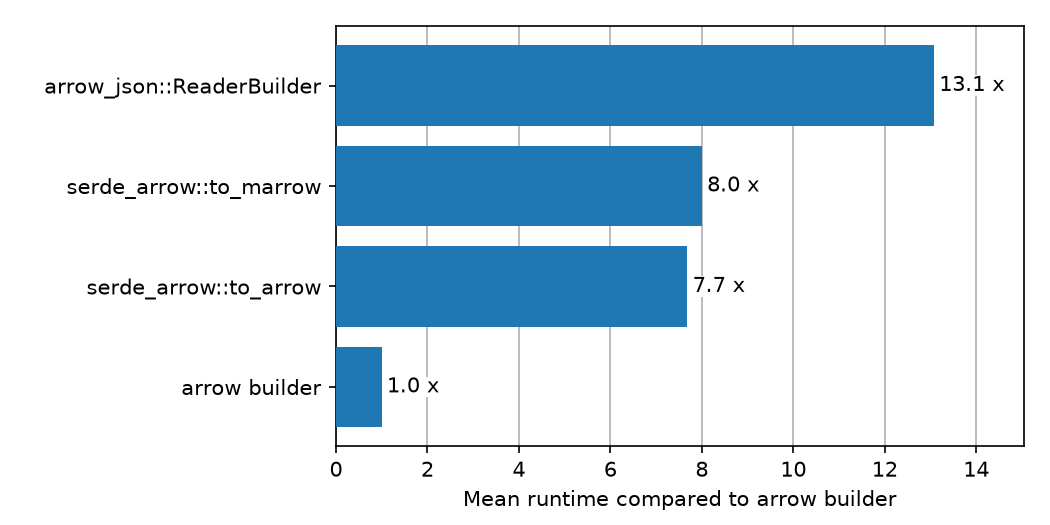
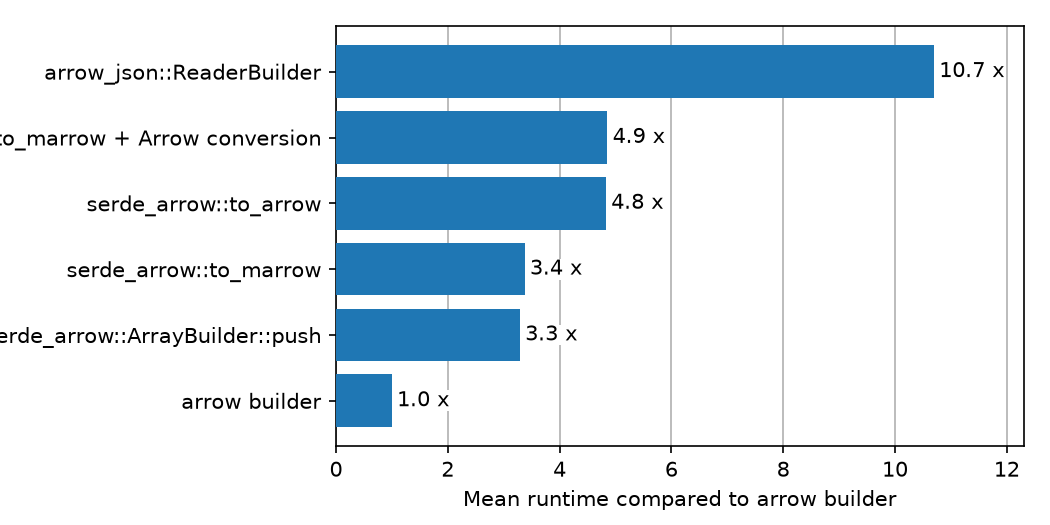
Update the readme

diff --git a/Readme.md b/Readme.md
@@ -130,24 +130,42 @@ Arrow builder construction. These benchmark results are workload-specific and on
 The detailed runtimes of the [benchmarks](serde_arrow_bench/benches/groups/) are listed below.
 
 <!-- start:benchmarks -->
+### `binary_values_1000`
+
+| label        | time [ms] | large_binary | binary | binary_view |
+|--------------|-----------|--------------|--------|-------------|
+| large_binary |      5.00 |         1.00 |   0.86 |        0.58 |
+| binary       |      5.84 |         1.17 |   1.00 |        0.68 |
+| binary_view  |      8.57 |         1.71 |   1.47 |        1.00 |
+
 ### `complex_1000`
 
-| label                     | time [ms] | arrow builder | serde_arrow::to | serde_arrow::to | arrow_json::Rea |
-|---------------------------|-----------|---------------|-----------------|-----------------|-----------------|
-| arrow builder             |      0.36 |          1.00 |            0.21 |            0.18 |            0.12 |
-| serde_arrow::to_arrow     |      1.74 |          4.86 |            1.00 |            0.87 |            0.59 |
-| serde_arrow::to_marrow    |      2.00 |          5.58 |            1.15 |            1.00 |            0.68 |
-| arrow_json::ReaderBuilder |      2.97 |          8.27 |            1.70 |            1.48 |            1.00 |
+| label                                     | time [ms] | arrow builder | serde_arrow::to | serde_arrow::Ar | serde_arrow::to | serde_arrow::to | arrow_json::Rea |
+|-------------------------------------------|-----------|---------------|-----------------|-----------------|-----------------|-----------------|-----------------|
+| arrow builder                             |      0.43 |          1.00 |            0.32 |            0.28 |            0.27 |            0.24 |            0.12 |
+| serde_arrow::to_arrow                     |      1.31 |          3.08 |            1.00 |            0.86 |            0.82 |            0.74 |            0.38 |
+| serde_arrow::ArrayBuilder::push           |      1.52 |          3.57 |            1.16 |            1.00 |            0.95 |            0.86 |            0.44 |
+| serde_arrow::to_marrow                    |      1.60 |          3.76 |            1.22 |            1.05 |            1.00 |            0.90 |            0.46 |
+| serde_arrow::to_marrow + Arrow conversion |      1.77 |          4.16 |            1.35 |            1.17 |            1.11 |            1.00 |            0.51 |
+| arrow_json::ReaderBuilder                 |      3.47 |          8.15 |            2.64 |            2.29 |            2.17 |            1.96 |            1.00 |
 
 ### `primitives_1000`
 
-| label                     | time [ms] | arrow builder | serde_arrow::to | serde_arrow::to | arrow_json::Rea |
-|---------------------------|-----------|---------------|-----------------|-----------------|-----------------|
-| arrow builder             |      0.05 |          1.00 |            0.10 |            0.10 |            0.06 |
-| serde_arrow::to_marrow    |      0.49 |         10.42 |            1.00 |            0.99 |            0.58 |
-| serde_arrow::to_arrow     |      0.50 |         10.51 |            1.01 |            1.00 |            0.59 |
-| arrow_json::ReaderBuilder |      0.85 |         17.89 |            1.72 |            1.70 |            1.00 |
+| label                                     | time [ms] | arrow builder | serde_arrow::to | serde_arrow::Ar | serde_arrow::to | serde_arrow::to | arrow_json::Rea |
+|-------------------------------------------|-----------|---------------|-----------------|-----------------|-----------------|-----------------|-----------------|
+| arrow builder                             |      0.07 |          1.00 |            0.33 |            0.33 |            0.18 |            0.15 |            0.08 |
+| serde_arrow::to_marrow                    |      0.22 |          3.00 |            1.00 |            0.99 |            0.54 |            0.46 |            0.23 |
+| serde_arrow::ArrayBuilder::push           |      0.22 |          3.02 |            1.01 |            1.00 |            0.54 |            0.46 |            0.23 |
+| serde_arrow::to_marrow + Arrow conversion |      0.40 |          5.55 |            1.85 |            1.84 |            1.00 |            0.84 |            0.42 |
+| serde_arrow::to_arrow                     |      0.48 |          6.58 |            2.20 |            2.18 |            1.19 |            1.00 |            0.50 |
+| arrow_json::ReaderBuilder                 |      0.96 |         13.24 |            4.42 |            4.39 |            2.39 |            2.01 |            1.00 |
 
+### `wide_schema_1024`
+
+| label              | time [ms] | builder_setup | deserializer_se |
+|--------------------|-----------|---------------|-----------------|
+| builder_setup      |      0.22 |          1.00 |            0.37 |
+| deserializer_setup |      0.58 |          2.71 |            1.00 |
 <!-- end:benchmarks -->
 
 ## License
